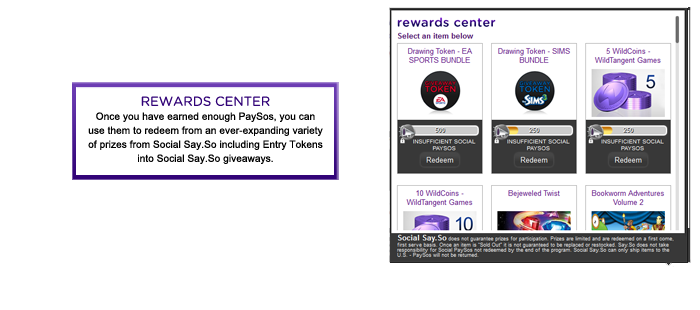
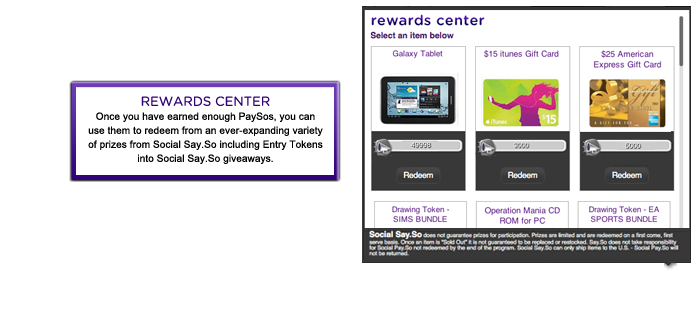
updates to social sayso install page for 04/09 recruitment. index.php text change and an image swap.

Changed region(s): [[0.09, 0.0, 0.99, 0.871], [0.93, 0.8419, 0.99, 0.871]]

diff --git a/public/client/social/landing/index.php b/public/client/social/landing/index.php
@@ -42,9 +42,11 @@ a:hover {
 	  <div class="section tab-pane active" id="section-1">
 	  	<div class="section-head">
 	  		<h2>What is Social Say.So?</h2>
-	  		<p>Do you eagerly await new quests in <b>SimCity Social</b>, new items<br />
-	  		  in <b>Farmville</b>, or a sequel to <b>Plants vs. Zombies</b>?<br />
-	  		  If so, you're probably a perfect fit for Social Say.So!</p>
+	  		<p>Do you eagerly await new quests in <b>SimCity Social</b>, love building your social <br />
+                           circle in <b> The Sims Social</b>, relentlessly work for new items in <b>Farmville</b>,<br />
+	  		   or can't wait for a sequel to <b>Plants vs. Zombies</b>? <br />
+                           Do you want to give us your thoughts on social gaming and earn great  rewards for doing so?<br />
+	  		   If this sounds like you, then you're probably a perfect fit for Social Say.So!</p>
 			</div><!-- .section-head -->
 
 			<div class="slideshow">
@@ -64,9 +66,8 @@ a:hover {
 	  <div class="section tab-pane" id="section-2">
 	  	<div class="section-head">
 	  		<h2>What can I do?</h2>
-	  		<p>Earn Social PaySos by taking polls, answering surveys and giving your
-opinion on social, casual and mobile gaming. Redeem Social PaySos for
-items in our Reward Center.</p>
+	  		<p>Earn redeemable points (Social PaySos) by taking polls, answering surveys and giving your opinion<br />
+                           on social, casual and mobile gaming. Redeem Social PaySos for items in our Rewards Center.</p>
 			</div><!-- .section-head -->
 
 			<div class="slideshow">
@@ -84,10 +85,11 @@ items in our Reward Center.</p>
 	  <div class="section tab-pane" id="section-3">
 	  	<div class="section-head">
 	  		<h2>What do I get?</h2>
-	  		<p>Great Prizes - The Reward Center is full of prizes designed
-specifically for social game fanatics.</p>
+	  		<p>Great Prizes - Redeem your points for <b>games</b>, <b> game related goods</b>,<br />
+                        <b>gift cards</b>, and a whole lot more!<br />
+                           The Rewards Center is full of prizes designed specifically for social game fanatics.</p>
 			</div><!-- .section-head -->
-
+
 			<div class="slideshow">
 				<div class="slides">
 					<div class="slide"><img src="images/img_slide_3a.png" alt="" /></div>
